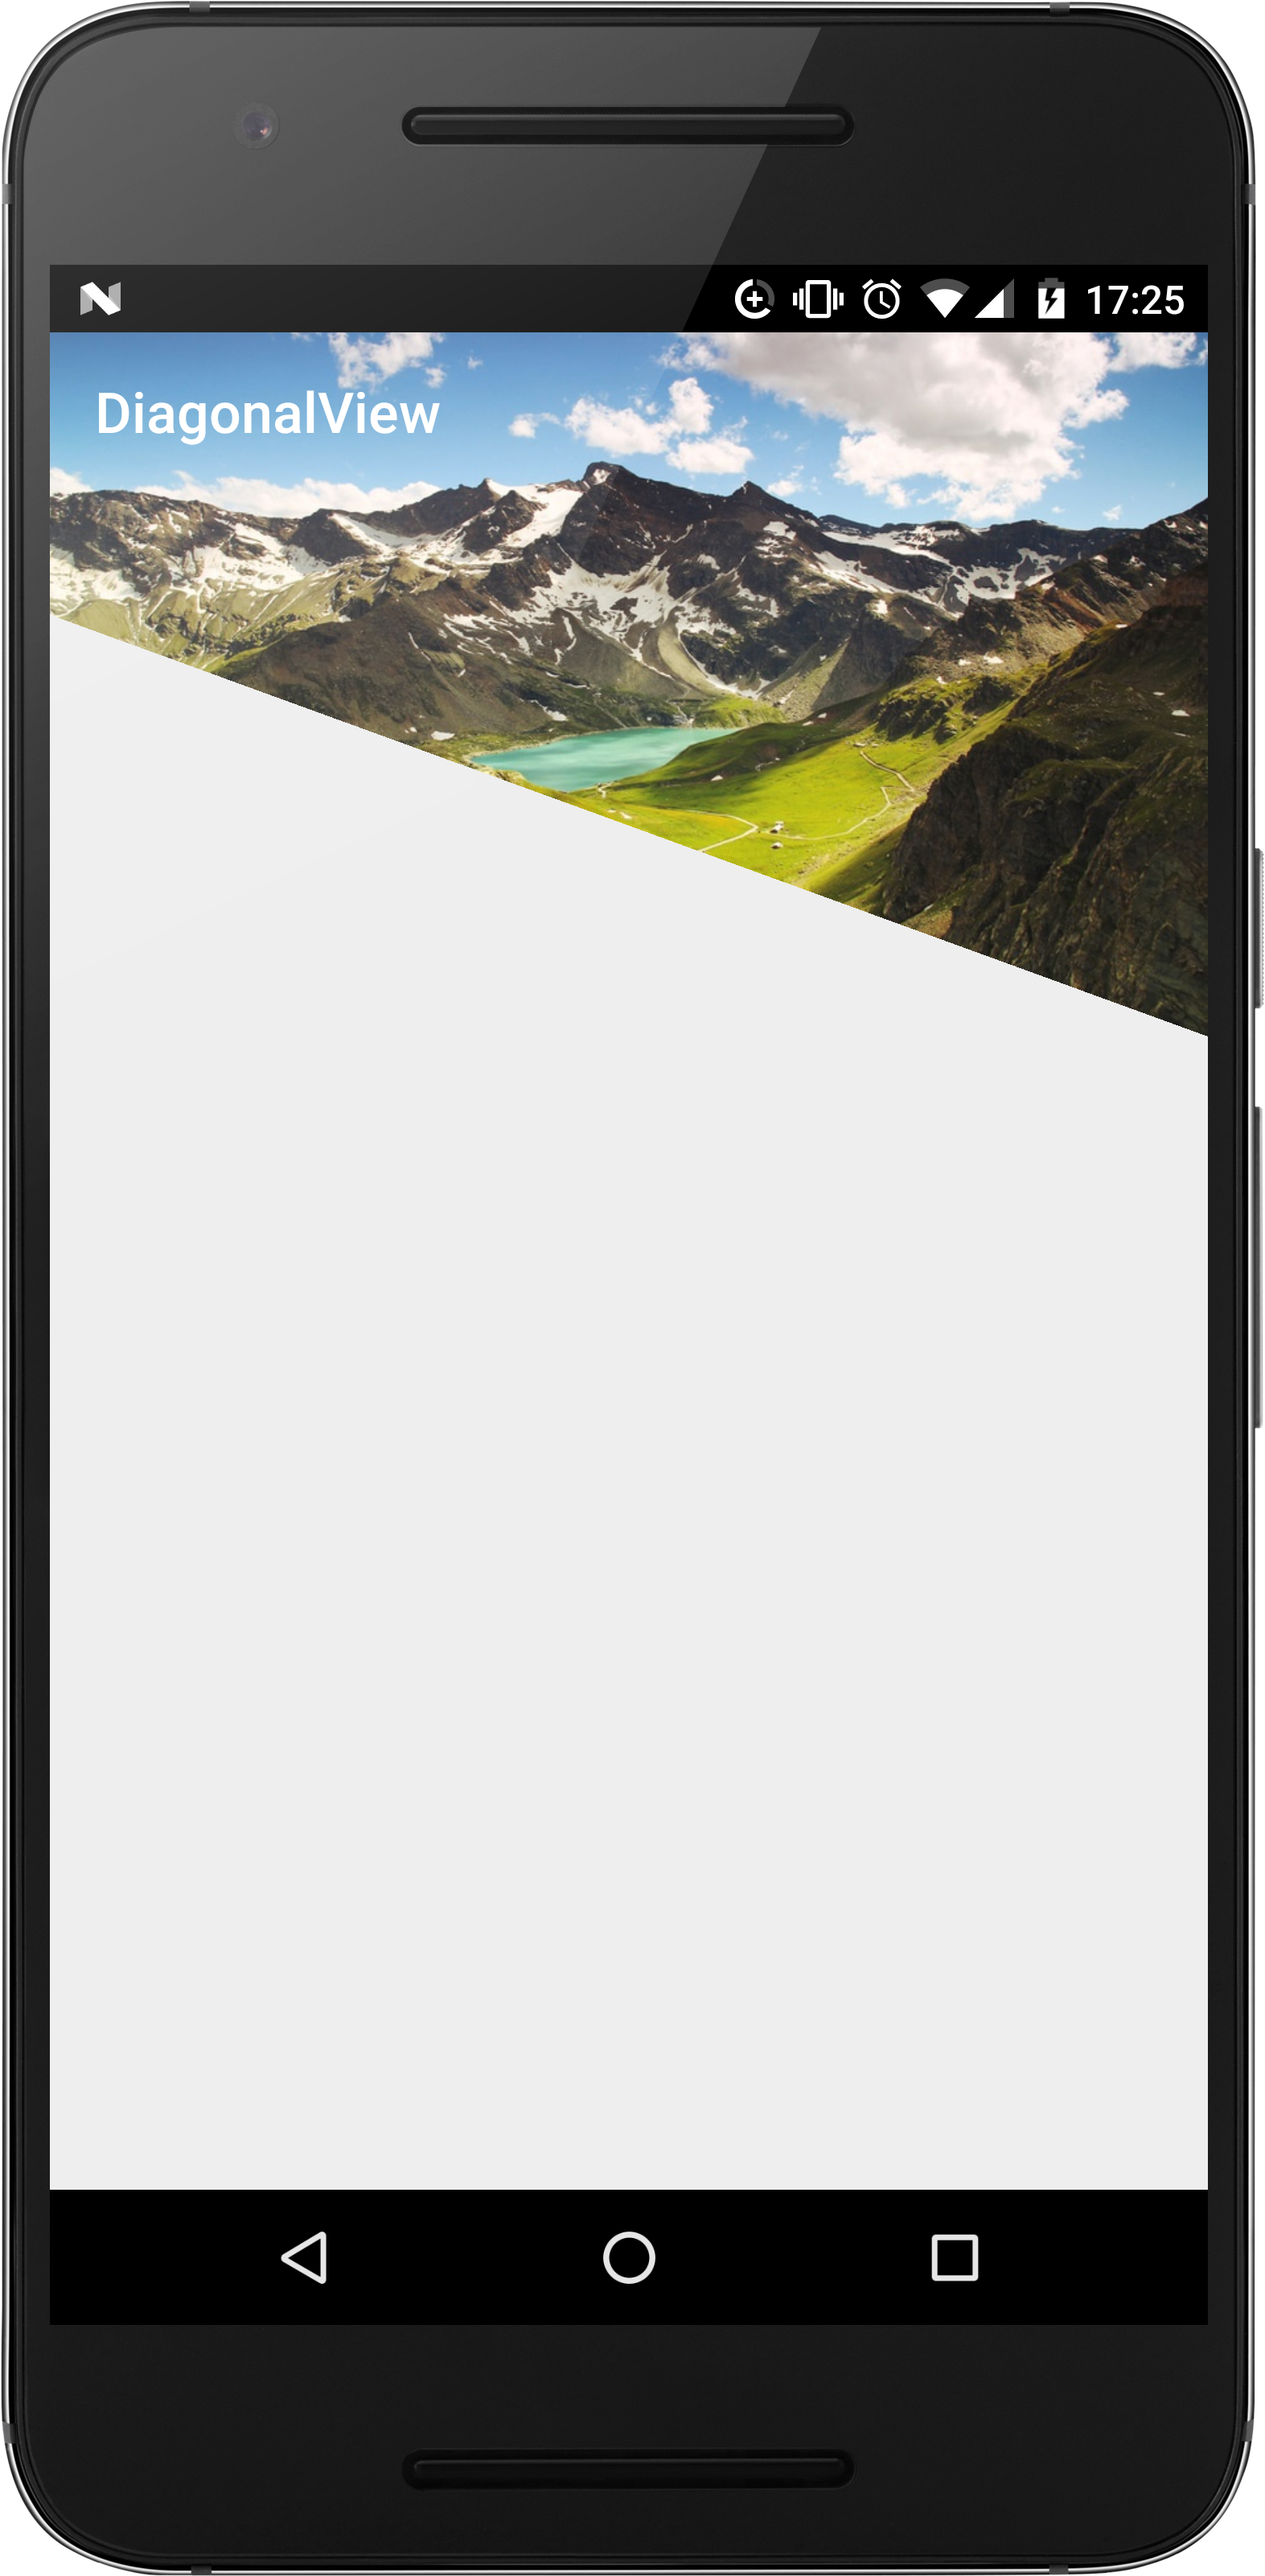
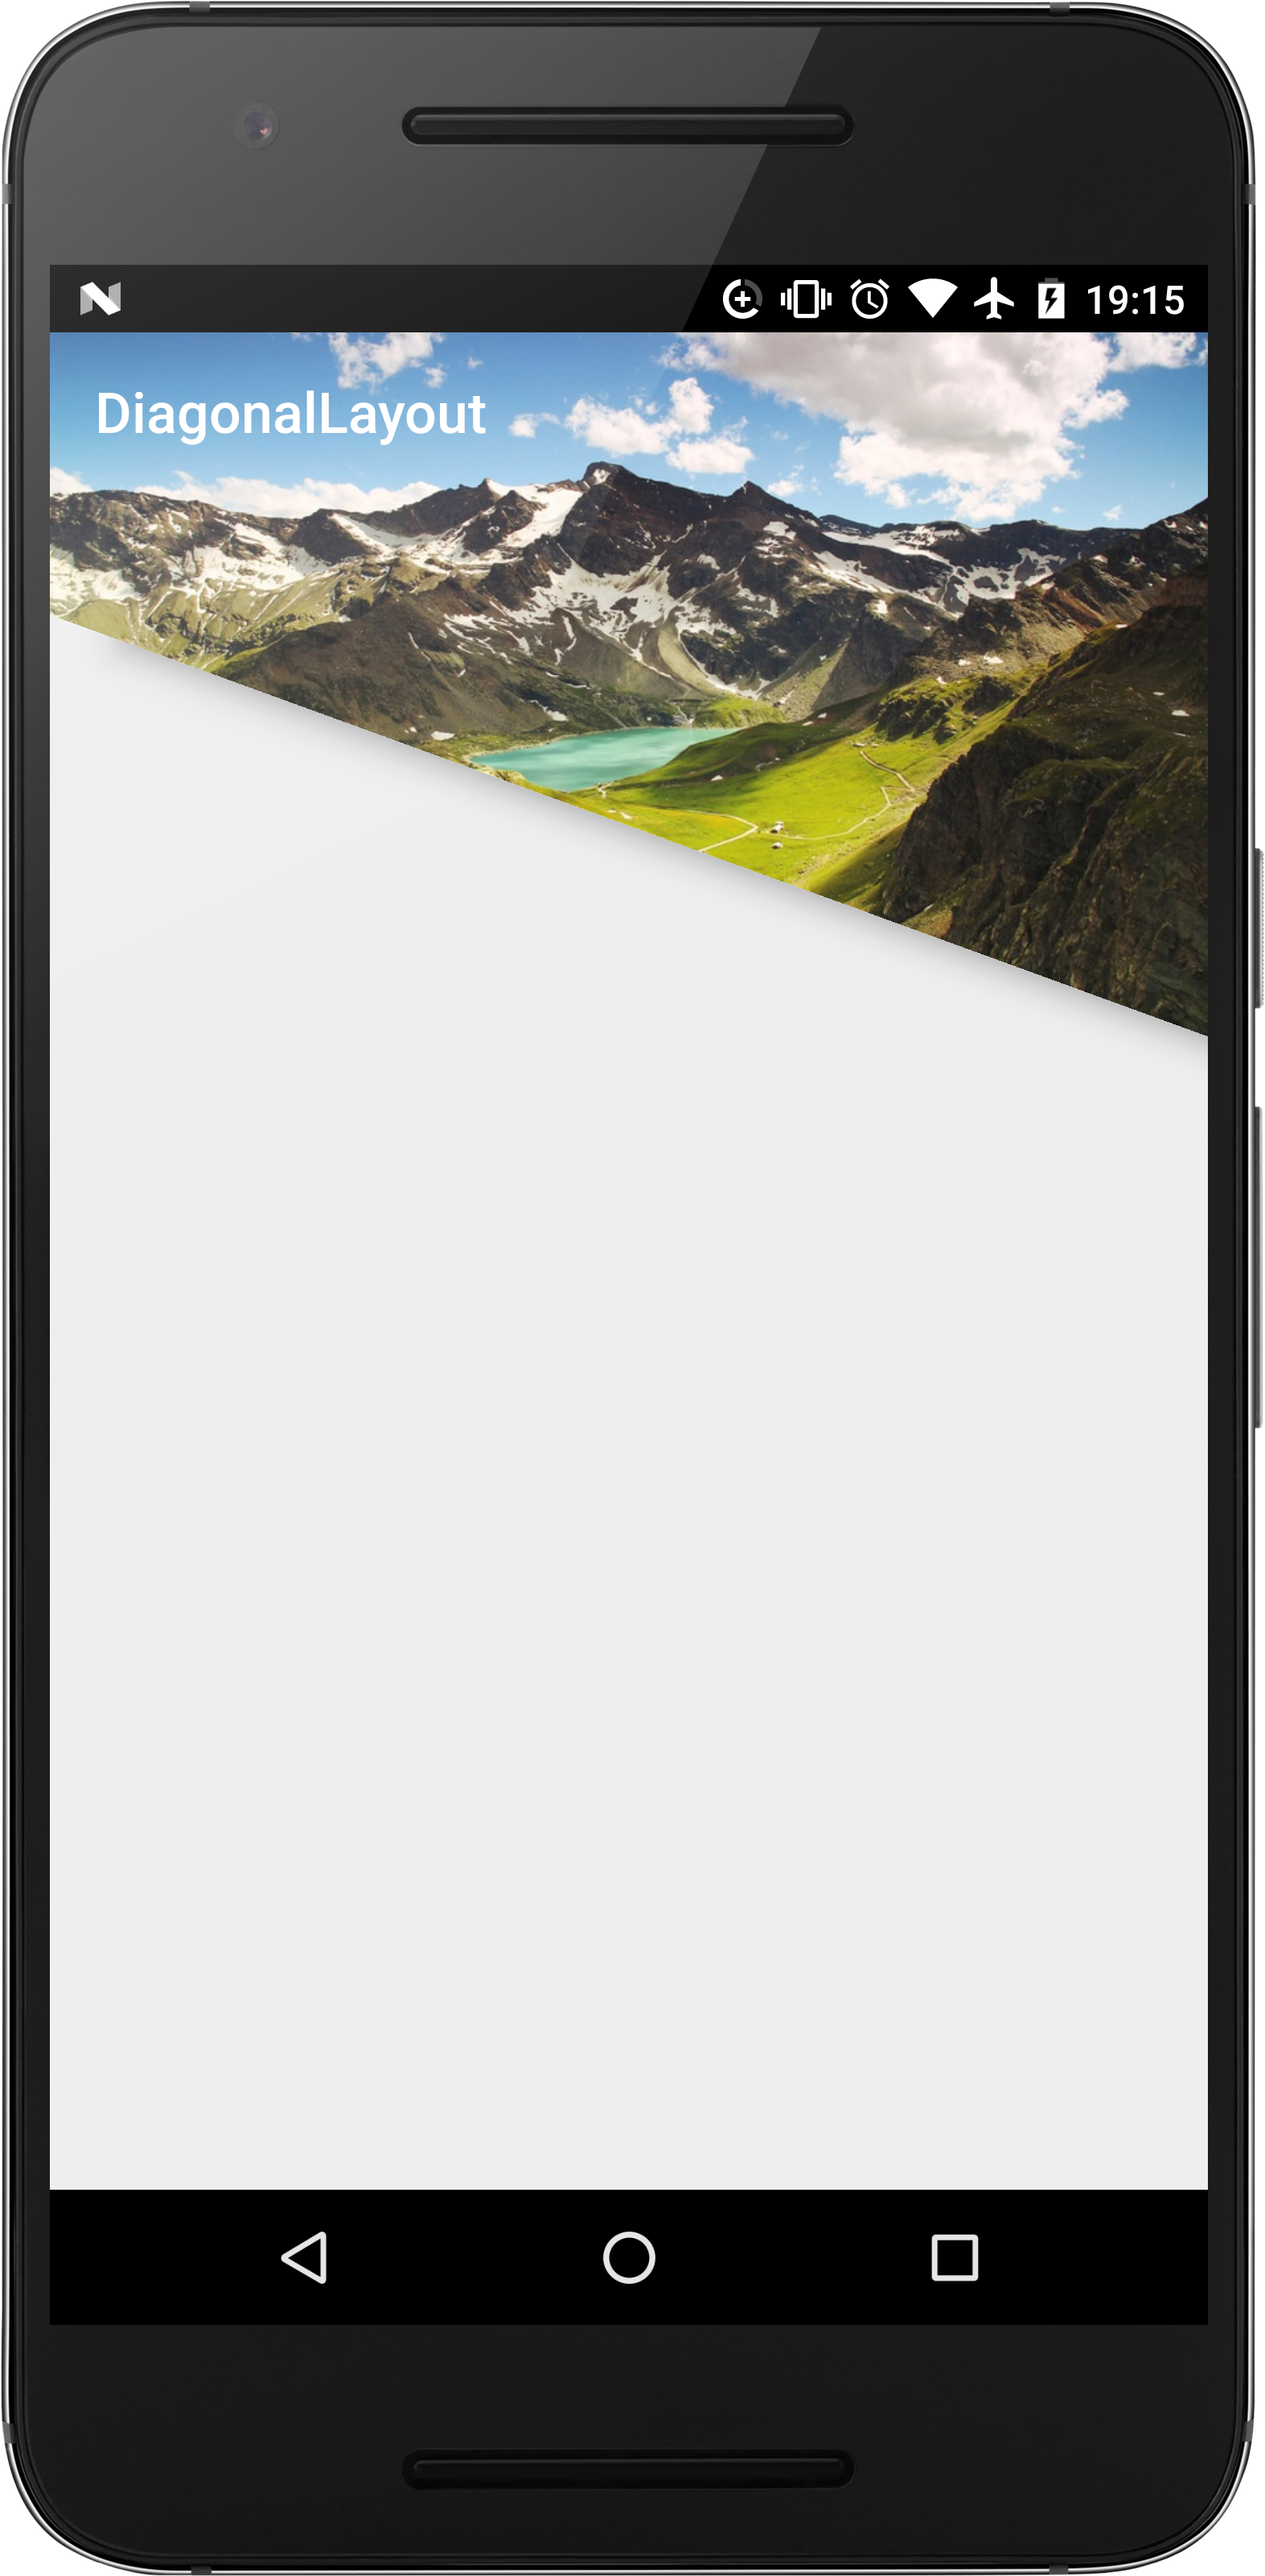
updated images

diff --git a/app/src/main/java/com/github/florent37/sample/diagonallayout/MainActivity.java b/app/src/main/java/com/github/florent37/sample/diagonallayout/MainActivity.java
@@ -11,7 +11,7 @@ public class MainActivity extends AppCompatActivity {
     @Override
     protected void onCreate(Bundle savedInstanceState) {
         super.onCreate(savedInstanceState);
-        setContentView(R.layout.activity_main);
+        setContentView(R.layout.activity_main_simple);
 
         toolbar = (Toolbar) findViewById(R.id.toolbar);
         setSupportActionBar(toolbar);
